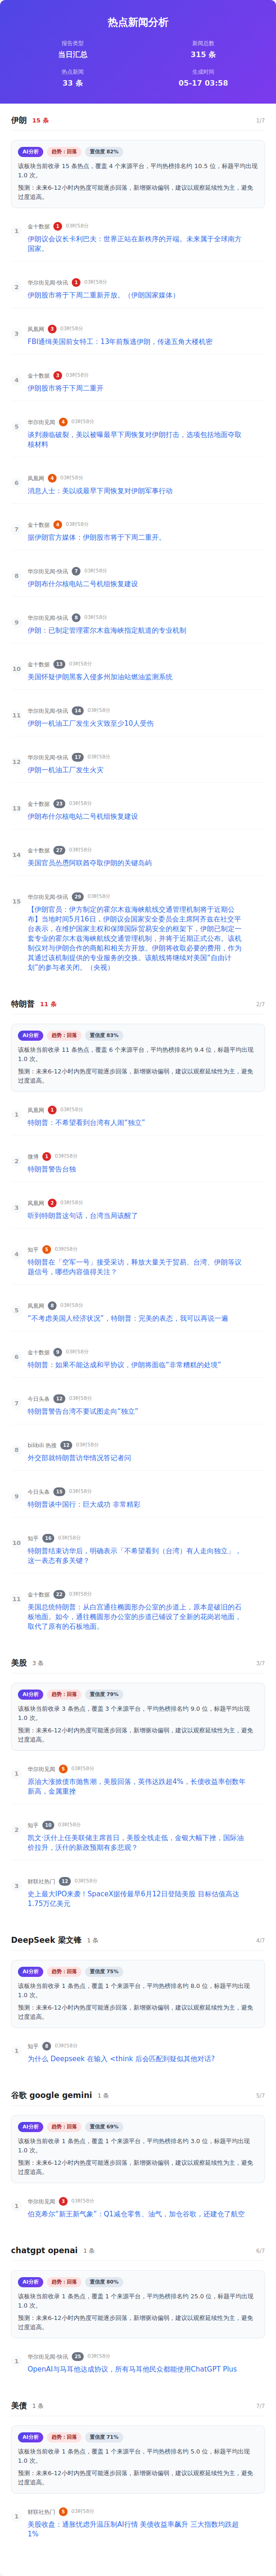
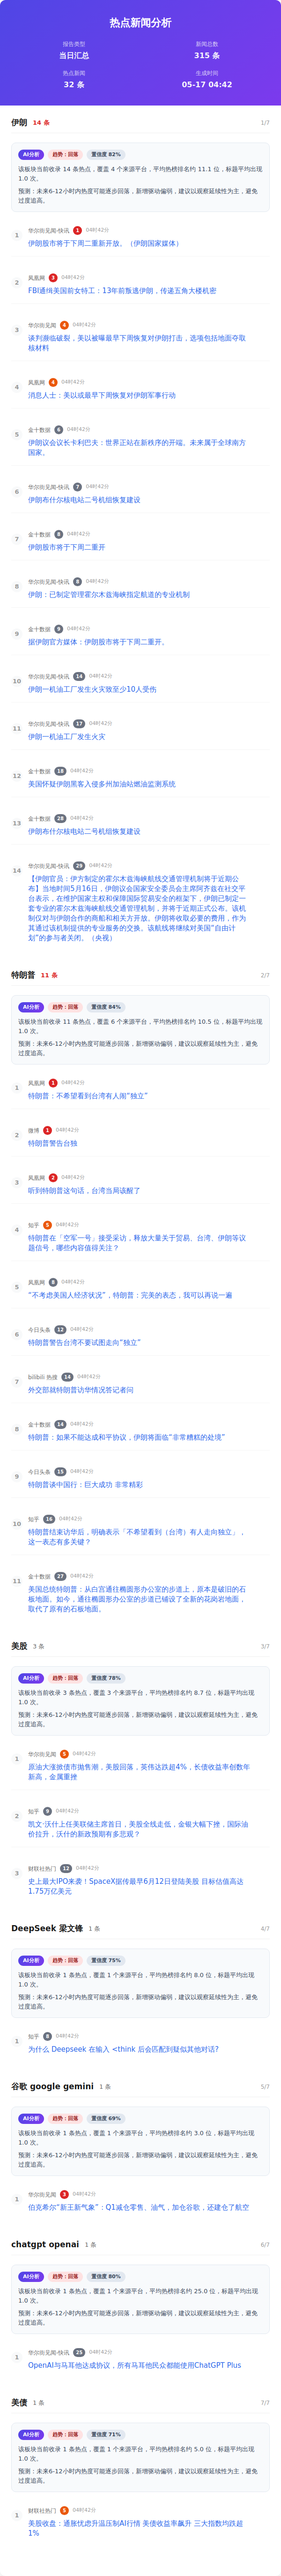
Auto update by GitHub Actions at Sun May 17 04:42:48 CST 2026

diff --git a/index.html b/index.html
@@ -459,11 +459,11 @@
                     </div>
                     <div class="info-item">
                         <span class="info-label">热点新闻</span>
-                        <span class="info-value">33 条</span>
+                        <span class="info-value">32 条</span>
                     </div>
                     <div class="info-item">
                         <span class="info-label">生成时间</span>
-                        <span class="info-value">05-17 03:58</span>
+                        <span class="info-value">05-17 04:42</span>
                     </div>
                 </div>
             </div>
@@ -473,7 +473,7 @@
                     <div class="word-header">
                         <div class="word-info">
                             <div class="word-name">伊朗</div>
-                            <div class="word-count hot">15 条</div>
+                            <div class="word-count hot">14 条</div>
                         </div>
                         <div class="word-index">1/7</div>
                     </div>
@@ -483,16 +483,16 @@
                             <span class="trend-badge down">趋势：回落</span>
                             <span class="confidence-pill">置信度 82%</span>
                         </div>
-                        <div class="ai-text">该板块当前收录 15 条热点，覆盖 4 个来源平台，平均热榜排名约 10.5 位，标题平均出现 1.0 次。</div>
+                        <div class="ai-text">该板块当前收录 14 条热点，覆盖 4 个来源平台，平均热榜排名约 11.1 位，标题平均出现 1.0 次。</div>
                         <div class="ai-text">预测：未来6-12小时内热度可能逐步回落，新增驱动偏弱，建议以观察延续性为主，避免过度追高。</div>
                     </div>
                     <div class="news-item ">
                         <div class="news-number">1</div>
                         <div class="news-content">
                             <div class="news-header">
-                                <span class="source-name">金十数据</span><span class="rank-num top">1</span><span class="time-info">03时58分</span>
+                                <span class="source-name">华尔街见闻-快讯</span><span class="rank-num top">1</span><span class="time-info">04时42分</span>
                             </div>
-                            <div class="news-title"><a href="https://flash.jin10.com/detail/20260517031730023800" target="_blank" class="news-link">伊朗议会议长卡利巴夫：世界正站在新秩序的开端。未来属于全球南方国家。</a>
+                            <div class="news-title"><a href="https://wallstreetcn.com/livenews/3104817" target="_blank" class="news-link">伊朗股市将于下周二重新开放。（伊朗国家媒体）</a>
                             </div>
                         </div>
                     </div>
@@ -500,9 +500,9 @@
                         <div class="news-number">2</div>
                         <div class="news-content">
                             <div class="news-header">
-                                <span class="source-name">华尔街见闻-快讯</span><span class="rank-num top">1</span><span class="time-info">03时58分</span>
+                                <span class="source-name">凤凰网</span><span class="rank-num top">3</span><span class="time-info">04时42分</span>
                             </div>
-                            <div class="news-title"><a href="https://wallstreetcn.com/livenews/3104817" target="_blank" class="news-link">伊朗股市将于下周二重新开放。（伊朗国家媒体）</a>
+                            <div class="news-title"><a href="https://news.ifeng.com/c/8tAy0GyTSSB" target="_blank" class="news-link">FBI通缉美国前女特工：13年前叛逃伊朗，传递五角大楼机密</a>
                             </div>
                         </div>
                     </div>
@@ -510,9 +510,9 @@
                         <div class="news-number">3</div>
                         <div class="news-content">
                             <div class="news-header">
-                                <span class="source-name">凤凰网</span><span class="rank-num top">3</span><span class="time-info">03时58分</span>
+                                <span class="source-name">华尔街见闻</span><span class="rank-num high">4</span><span class="time-info">04时42分</span>
                             </div>
-                            <div class="news-title"><a href="https://news.ifeng.com/c/8tAy0GyTSSB" target="_blank" class="news-link">FBI通缉美国前女特工：13年前叛逃伊朗，传递五角大楼机密</a>
+                            <div class="news-title"><a href="https://wallstreetcn.com/articles/3772425" target="_blank" class="news-link">谈判濒临破裂，美以被曝最早下周恢复对伊朗打击，选项包括地面夺取核材料</a>
                             </div>
                         </div>
                     </div>
@@ -520,9 +520,9 @@
                         <div class="news-number">4</div>
                         <div class="news-content">
                             <div class="news-header">
-                                <span class="source-name">金十数据</span><span class="rank-num top">3</span><span class="time-info">03时58分</span>
+                                <span class="source-name">凤凰网</span><span class="rank-num high">4</span><span class="time-info">04时42分</span>
                             </div>
-                            <div class="news-title"><a href="https://flash.jin10.com/detail/20260517024230307800" target="_blank" class="news-link">伊朗股市将于下周二重开</a>
+                            <div class="news-title"><a href="https://news.ifeng.com/c/8tAsxndbgHu" target="_blank" class="news-link">消息人士：美以或最早下周恢复对伊朗军事行动</a>
                             </div>
                         </div>
                     </div>
@@ -530,9 +530,9 @@
                         <div class="news-number">5</div>
                         <div class="news-content">
                             <div class="news-header">
-                                <span class="source-name">华尔街见闻</span><span class="rank-num high">4</span><span class="time-info">03时58分</span>
+                                <span class="source-name">金十数据</span><span class="rank-num ">6</span><span class="time-info">04时42分</span>
                             </div>
-                            <div class="news-title"><a href="https://wallstreetcn.com/articles/3772425" target="_blank" class="news-link">谈判濒临破裂，美以被曝最早下周恢复对伊朗打击，选项包括地面夺取核材料</a>
+                            <div class="news-title"><a href="https://flash.jin10.com/detail/20260517031730023800" target="_blank" class="news-link">伊朗议会议长卡利巴夫：世界正站在新秩序的开端。未来属于全球南方国家。</a>
                             </div>
                         </div>
                     </div>
@@ -540,9 +540,9 @@
                         <div class="news-number">6</div>
                         <div class="news-content">
                             <div class="news-header">
-                                <span class="source-name">凤凰网</span><span class="rank-num high">4</span><span class="time-info">03时58分</span>
+                                <span class="source-name">华尔街见闻-快讯</span><span class="rank-num ">7</span><span class="time-info">04时42分</span>
                             </div>
-                            <div class="news-title"><a href="https://news.ifeng.com/c/8tAsxndbgHu" target="_blank" class="news-link">消息人士：美以或最早下周恢复对伊朗军事行动</a>
+                            <div class="news-title"><a href="https://wallstreetcn.com/livenews/3104819" target="_blank" class="news-link">伊朗布什尔核电站二号机组恢复建设</a>
                             </div>
                         </div>
                     </div>
@@ -550,9 +550,9 @@
                         <div class="news-number">7</div>
                         <div class="news-content">
                             <div class="news-header">
-                                <span class="source-name">金十数据</span><span class="rank-num high">4</span><span class="time-info">03时58分</span>
+                                <span class="source-name">金十数据</span><span class="rank-num ">8</span><span class="time-info">04时42分</span>
                             </div>
-                            <div class="news-title"><a href="https://flash.jin10.com/detail/20260517023242958800" target="_blank" class="news-link">据伊朗官方媒体：伊朗股市将于下周二重开。</a>
+                            <div class="news-title"><a href="https://flash.jin10.com/detail/20260517024230307800" target="_blank" class="news-link">伊朗股市将于下周二重开</a>
                             </div>
                         </div>
                     </div>
@@ -560,9 +560,9 @@
                         <div class="news-number">8</div>
                         <div class="news-content">
                             <div class="news-header">
-                                <span class="source-name">华尔街见闻-快讯</span><span class="rank-num ">7</span><span class="time-info">03时58分</span>
+                                <span class="source-name">华尔街见闻-快讯</span><span class="rank-num ">8</span><span class="time-info">04时42分</span>
                             </div>
-                            <div class="news-title"><a href="https://wallstreetcn.com/livenews/3104819" target="_blank" class="news-link">伊朗布什尔核电站二号机组恢复建设</a>
+                            <div class="news-title"><a href="https://wallstreetcn.com/livenews/3104818" target="_blank" class="news-link">伊朗：已制定管理霍尔木兹海峡指定航道的专业机制</a>
                             </div>
                         </div>
                     </div>
@@ -570,9 +570,9 @@
                         <div class="news-number">9</div>
                         <div class="news-content">
                             <div class="news-header">
-                                <span class="source-name">华尔街见闻-快讯</span><span class="rank-num ">8</span><span class="time-info">03时58分</span>
+                                <span class="source-name">金十数据</span><span class="rank-num ">9</span><span class="time-info">04时42分</span>
                             </div>
-                            <div class="news-title"><a href="https://wallstreetcn.com/livenews/3104818" target="_blank" class="news-link">伊朗：已制定管理霍尔木兹海峡指定航道的专业机制</a>
+                            <div class="news-title"><a href="https://flash.jin10.com/detail/20260517023242958800" target="_blank" class="news-link">据伊朗官方媒体：伊朗股市将于下周二重开。</a>
                             </div>
                         </div>
                     </div>
@@ -580,9 +580,9 @@
                         <div class="news-number">10</div>
                         <div class="news-content">
                             <div class="news-header">
-                                <span class="source-name">金十数据</span><span class="rank-num ">13</span><span class="time-info">03时58分</span>
+                                <span class="source-name">华尔街见闻-快讯</span><span class="rank-num ">14</span><span class="time-info">04时42分</span>
                             </div>
-                            <div class="news-title"><a href="https://flash.jin10.com/detail/20260517013755887800" target="_blank" class="news-link">美国怀疑伊朗黑客入侵多州加油站燃油监测系统</a>
+                            <div class="news-title"><a href="https://wallstreetcn.com/livenews/3104807" target="_blank" class="news-link">伊朗一机油工厂发生火灾致至少10人受伤</a>
                             </div>
                         </div>
                     </div>
@@ -590,9 +590,9 @@
                         <div class="news-number">11</div>
                         <div class="news-content">
                             <div class="news-header">
-                                <span class="source-name">华尔街见闻-快讯</span><span class="rank-num ">14</span><span class="time-info">03时58分</span>
+                                <span class="source-name">华尔街见闻-快讯</span><span class="rank-num ">17</span><span class="time-info">04时42分</span>
                             </div>
-                            <div class="news-title"><a href="https://wallstreetcn.com/livenews/3104807" target="_blank" class="news-link">伊朗一机油工厂发生火灾致至少10人受伤</a>
+                            <div class="news-title"><a href="https://wallstreetcn.com/livenews/3104803" target="_blank" class="news-link">伊朗一机油工厂发生火灾</a>
                             </div>
                         </div>
                     </div>
@@ -600,9 +600,9 @@
                         <div class="news-number">12</div>
                         <div class="news-content">
                             <div class="news-header">
-                                <span class="source-name">华尔街见闻-快讯</span><span class="rank-num ">17</span><span class="time-info">03时58分</span>
+                                <span class="source-name">金十数据</span><span class="rank-num ">18</span><span class="time-info">04时42分</span>
                             </div>
-                            <div class="news-title"><a href="https://wallstreetcn.com/livenews/3104803" target="_blank" class="news-link">伊朗一机油工厂发生火灾</a>
+                            <div class="news-title"><a href="https://flash.jin10.com/detail/20260517013755887800" target="_blank" class="news-link">美国怀疑伊朗黑客入侵多州加油站燃油监测系统</a>
                             </div>
                         </div>
                     </div>
@@ -610,7 +610,7 @@
                         <div class="news-number">13</div>
                         <div class="news-content">
                             <div class="news-header">
-                                <span class="source-name">金十数据</span><span class="rank-num ">23</span><span class="time-info">03时58分</span>
+                                <span class="source-name">金十数据</span><span class="rank-num ">28</span><span class="time-info">04时42分</span>
                             </div>
                             <div class="news-title"><a href="https://flash.jin10.com/detail/20260517005821557800" target="_blank" class="news-link">伊朗布什尔核电站二号机组恢复建设</a>
                             </div>
@@ -620,17 +620,7 @@
                         <div class="news-number">14</div>
                         <div class="news-content">
                             <div class="news-header">
-                                <span class="source-name">金十数据</span><span class="rank-num ">27</span><span class="time-info">03时58分</span>
-                            </div>
-                            <div class="news-title"><a href="https://flash.jin10.com/detail/20260517004855407800" target="_blank" class="news-link">美国官员怂恿阿联酋夺取伊朗的关键岛屿</a>
-                            </div>
-                        </div>
-                    </div>
-                    <div class="news-item ">
-                        <div class="news-number">15</div>
-                        <div class="news-content">
-                            <div class="news-header">
-                                <span class="source-name">华尔街见闻-快讯</span><span class="rank-num ">29</span><span class="time-info">03时58分</span>
+                                <span class="source-name">华尔街见闻-快讯</span><span class="rank-num ">29</span><span class="time-info">04时42分</span>
                             </div>
                             <div class="news-title"><a href="https://wallstreetcn.com/livenews/3104789" target="_blank" class="news-link">【伊朗官员：伊方制定的霍尔木兹海峡航线交通管理机制将于近期公布】当地时间5月16日，伊朗议会国家安全委员会主席阿齐兹在社交平台表示，在维护国家主权和保障国际贸易安全的框架下，伊朗已制定一套专业的霍尔木兹海峡航线交通管理机制，并将于近期正式公布。该机制仅对与伊朗合作的商船和相关方开放。伊朗将收取必要的费用，作为其通过该机制提供的专业服务的交换。该航线将继续对美国“自由计划”的参与者关闭。（央视）</a>
                             </div>
@@ -649,16 +639,16 @@
                         <div class="ai-insight-top">
                             <span class="ai-badge">AI分析</span>
                             <span class="trend-badge down">趋势：回落</span>
-                            <span class="confidence-pill">置信度 83%</span>
+                            <span class="confidence-pill">置信度 84%</span>
                         </div>
-                        <div class="ai-text">该板块当前收录 11 条热点，覆盖 6 个来源平台，平均热榜排名约 9.4 位，标题平均出现 1.0 次。</div>
+                        <div class="ai-text">该板块当前收录 11 条热点，覆盖 6 个来源平台，平均热榜排名约 10.5 位，标题平均出现 1.0 次。</div>
                         <div class="ai-text">预测：未来6-12小时内热度可能逐步回落，新增驱动偏弱，建议以观察延续性为主，避免过度追高。</div>
                     </div>
                     <div class="news-item ">
                         <div class="news-number">1</div>
                         <div class="news-content">
                             <div class="news-header">
-                                <span class="source-name">凤凰网</span><span class="rank-num top">1</span><span class="time-info">03时58分</span>
+                                <span class="source-name">凤凰网</span><span class="rank-num top">1</span><span class="time-info">04时42分</span>
                             </div>
                             <div class="news-title"><a href="https://news.ifeng.com/c/8tBHQ0gcJR0" target="_blank" class="news-link">特朗普：不希望看到台湾有人闹“独立”</a>
                             </div>
@@ -668,7 +658,7 @@
                         <div class="news-number">2</div>
                         <div class="news-content">
                             <div class="news-header">
-                                <span class="source-name">微博</span><span class="rank-num top">1</span><span class="time-info">03时58分</span>
+                                <span class="source-name">微博</span><span class="rank-num top">1</span><span class="time-info">04时42分</span>
                             </div>
                             <div class="news-title"><a href="https://s.weibo.com/weibo?q=%23%E7%89%B9%E6%9C%97%E6%99%AE%E8%AD%A6%E5%91%8A%E5%8F%B0%E7%8B%AC%23&amp;t=31&amp;band_rank=1&amp;Refer=top" target="_blank" class="news-link">特朗普警告台独</a>
                             </div>
@@ -678,7 +668,7 @@
                         <div class="news-number">3</div>
                         <div class="news-content">
                             <div class="news-header">
-                                <span class="source-name">凤凰网</span><span class="rank-num top">2</span><span class="time-info">03时58分</span>
+                                <span class="source-name">凤凰网</span><span class="rank-num top">2</span><span class="time-info">04时42分</span>
                             </div>
                             <div class="news-title"><a href="https://news.ifeng.com/c/8tB1vsSsITh" target="_blank" class="news-link">听到特朗普这句话，台湾当局该醒了</a>
                             </div>
@@ -688,7 +678,7 @@
                         <div class="news-number">4</div>
                         <div class="news-content">
                             <div class="news-header">
-                                <span class="source-name">知乎</span><span class="rank-num high">5</span><span class="time-info">03时58分</span>
+                                <span class="source-name">知乎</span><span class="rank-num high">5</span><span class="time-info">04时42分</span>
                             </div>
                             <div class="news-title"><a href="https://www.zhihu.com/question/2039019083463488463" target="_blank" class="news-link">特朗普在「空军一号」接受采访，释放大量关于贸易、台湾、伊朗等议题信号，哪些内容值得关注？</a>
                             </div>
@@ -698,7 +688,7 @@
                         <div class="news-number">5</div>
                         <div class="news-content">
                             <div class="news-header">
-                                <span class="source-name">凤凰网</span><span class="rank-num ">8</span><span class="time-info">03时58分</span>
+                                <span class="source-name">凤凰网</span><span class="rank-num ">8</span><span class="time-info">04时42分</span>
                             </div>
                             <div class="news-title"><a href="https://news.ifeng.com/c/8tAvchdzOd1" target="_blank" class="news-link">“不考虑美国人经济状况”，特朗普：完美的表态，我可以再说一遍</a>
                             </div>
@@ -708,9 +698,9 @@
                         <div class="news-number">6</div>
                         <div class="news-content">
                             <div class="news-header">
-                                <span class="source-name">金十数据</span><span class="rank-num ">9</span><span class="time-info">03时58分</span>
+                                <span class="source-name">今日头条</span><span class="rank-num ">12</span><span class="time-info">04时42分</span>
                             </div>
-                            <div class="news-title"><a href="https://flash.jin10.com/detail/20260517015331327800" target="_blank" class="news-link">特朗普：如果不能达成和平协议，伊朗将面临“非常糟糕的处境”</a>
+                            <div class="news-title"><a href="https://www.toutiao.com/trending/7640462139869630015/" target="_blank" class="news-link">特朗普警告台湾不要试图走向“独立”</a>
                             </div>
                         </div>
                     </div>
@@ -718,9 +708,9 @@
                         <div class="news-number">7</div>
                         <div class="news-content">
                             <div class="news-header">
-                                <span class="source-name">今日头条</span><span class="rank-num ">12</span><span class="time-info">03时58分</span>
+                                <span class="source-name">bilibili 热搜</span><span class="rank-num ">14</span><span class="time-info">04时42分</span>
                             </div>
-                            <div class="news-title"><a href="https://www.toutiao.com/trending/7640462139869630015/" target="_blank" class="news-link">特朗普警告台湾不要试图走向“独立”</a>
+                            <div class="news-title"><a href="https://search.bilibili.com/all?keyword=%E5%A4%96%E4%BA%A4%E9%83%A8%E5%B0%B1%E7%89%B9%E6%9C%97%E6%99%AE%E8%AE%BF%E5%8D%8E%E6%83%85%E5%86%B5%E7%AD%94%E8%AE%B0%E8%80%85%E9%97%AE" target="_blank" class="news-link">外交部就特朗普访华情况答记者问</a>
                             </div>
                         </div>
                     </div>
@@ -728,9 +718,9 @@
                         <div class="news-number">8</div>
                         <div class="news-content">
                             <div class="news-header">
-                                <span class="source-name">bilibili 热搜</span><span class="rank-num ">12</span><span class="time-info">03时58分</span>
+                                <span class="source-name">金十数据</span><span class="rank-num ">14</span><span class="time-info">04时42分</span>
                             </div>
-                            <div class="news-title"><a href="https://search.bilibili.com/all?keyword=%E5%A4%96%E4%BA%A4%E9%83%A8%E5%B0%B1%E7%89%B9%E6%9C%97%E6%99%AE%E8%AE%BF%E5%8D%8E%E6%83%85%E5%86%B5%E7%AD%94%E8%AE%B0%E8%80%85%E9%97%AE" target="_blank" class="news-link">外交部就特朗普访华情况答记者问</a>
+                            <div class="news-title"><a href="https://flash.jin10.com/detail/20260517015331327800" target="_blank" class="news-link">特朗普：如果不能达成和平协议，伊朗将面临“非常糟糕的处境”</a>
                             </div>
                         </div>
                     </div>
@@ -738,7 +728,7 @@
                         <div class="news-number">9</div>
                         <div class="news-content">
                             <div class="news-header">
-                                <span class="source-name">今日头条</span><span class="rank-num ">15</span><span class="time-info">03时58分</span>
+                                <span class="source-name">今日头条</span><span class="rank-num ">15</span><span class="time-info">04时42分</span>
                             </div>
                             <div class="news-title"><a href="https://www.toutiao.com/trending/7639309598792663066/" target="_blank" class="news-link">特朗普谈中国行：巨大成功 非常精彩</a>
                             </div>
@@ -748,7 +738,7 @@
                         <div class="news-number">10</div>
                         <div class="news-content">
                             <div class="news-header">
-                                <span class="source-name">知乎</span><span class="rank-num ">16</span><span class="time-info">03时58分</span>
+                                <span class="source-name">知乎</span><span class="rank-num ">16</span><span class="time-info">04时42分</span>
                             </div>
                             <div class="news-title"><a href="https://www.zhihu.com/question/2039077052658049213" target="_blank" class="news-link">特朗普结束访华后，明确表示「不希望看到（台湾）有人走向独立」，这一表态有多关键？</a>
                             </div>
@@ -758,7 +748,7 @@
                         <div class="news-number">11</div>
                         <div class="news-content">
                             <div class="news-header">
-                                <span class="source-name">金十数据</span><span class="rank-num ">22</span><span class="time-info">03时58分</span>
+                                <span class="source-name">金十数据</span><span class="rank-num ">27</span><span class="time-info">04时42分</span>
                             </div>
                             <div class="news-title"><a href="https://flash.jin10.com/detail/20260517010131045800" target="_blank" class="news-link">美国总统特朗普：从白宫通往椭圆形办公室的步道上，原本是破旧的石板地面。如今，通往椭圆形办公室的步道已铺设了全新的花岗岩地面，取代了原有的石板地面。</a>
                             </div>
@@ -777,16 +767,16 @@
                         <div class="ai-insight-top">
                             <span class="ai-badge">AI分析</span>
                             <span class="trend-badge down">趋势：回落</span>
-                            <span class="confidence-pill">置信度 79%</span>
+                            <span class="confidence-pill">置信度 78%</span>
                         </div>
-                        <div class="ai-text">该板块当前收录 3 条热点，覆盖 3 个来源平台，平均热榜排名约 9.0 位，标题平均出现 1.0 次。</div>
+                        <div class="ai-text">该板块当前收录 3 条热点，覆盖 3 个来源平台，平均热榜排名约 8.7 位，标题平均出现 1.0 次。</div>
                         <div class="ai-text">预测：未来6-12小时内热度可能逐步回落，新增驱动偏弱，建议以观察延续性为主，避免过度追高。</div>
                     </div>
                     <div class="news-item ">
                         <div class="news-number">1</div>
                         <div class="news-content">
                             <div class="news-header">
-                                <span class="source-name">华尔街见闻</span><span class="rank-num high">5</span><span class="time-info">03时58分</span>
+                                <span class="source-name">华尔街见闻</span><span class="rank-num high">5</span><span class="time-info">04时42分</span>
                             </div>
                             <div class="news-title"><a href="https://wallstreetcn.com/articles/3772341" target="_blank" class="news-link">原油大涨掀债市抛售潮，美股回落，英伟达跌超4%，长债收益率创数年新高，金属重挫</a>
                             </div>
@@ -796,7 +786,7 @@
                         <div class="news-number">2</div>
                         <div class="news-content">
                             <div class="news-header">
-                                <span class="source-name">知乎</span><span class="rank-num ">10</span><span class="time-info">03时58分</span>
+                                <span class="source-name">知乎</span><span class="rank-num ">9</span><span class="time-info">04时42分</span>
                             </div>
                             <div class="news-title"><a href="https://www.zhihu.com/question/2038931746901710643" target="_blank" class="news-link">凯文·沃什上任美联储主席首日，美股全线走低，金银大幅下挫，国际油价拉升，沃什的新政预期有多悲观？</a>
                             </div>
@@ -806,7 +796,7 @@
                         <div class="news-number">3</div>
                         <div class="news-content">
                             <div class="news-header">
-                                <span class="source-name">财联社热门</span><span class="rank-num ">12</span><span class="time-info">03时58分</span>
+                                <span class="source-name">财联社热门</span><span class="rank-num ">12</span><span class="time-info">04时42分</span>
                             </div>
                             <div class="news-title"><a href="https://www.cls.cn/detail/2373172" target="_blank" class="news-link">史上最大IPO来袭！SpaceX据传最早6月12日登陆美股 目标估值高达1.75万亿美元</a>
                             </div>
@@ -834,7 +824,7 @@
                         <div class="news-number">1</div>
                         <div class="news-content">
                             <div class="news-header">
-                                <span class="source-name">知乎</span><span class="rank-num ">8</span><span class="time-info">03时58分</span>
+                                <span class="source-name">知乎</span><span class="rank-num ">8</span><span class="time-info">04时42分</span>
                             </div>
                             <div class="news-title"><a href="https://www.zhihu.com/question/2038402853274915914" target="_blank" class="news-link">为什么 Deepseek 在输入 &lt;think 后会匹配到疑似其他对话?</a>
                             </div>
@@ -862,7 +852,7 @@
                         <div class="news-number">1</div>
                         <div class="news-content">
                             <div class="news-header">
-                                <span class="source-name">华尔街见闻</span><span class="rank-num top">3</span><span class="time-info">03时58分</span>
+                                <span class="source-name">华尔街见闻</span><span class="rank-num top">3</span><span class="time-info">04时42分</span>
                             </div>
                             <div class="news-title"><a href="https://wallstreetcn.com/articles/3772402" target="_blank" class="news-link">伯克希尔“新王新气象”：Q1减仓零售、油气，加仓谷歌，还建仓了航空</a>
                             </div>
@@ -890,7 +880,7 @@
                         <div class="news-number">1</div>
                         <div class="news-content">
                             <div class="news-header">
-                                <span class="source-name">华尔街见闻-快讯</span><span class="rank-num ">25</span><span class="time-info">03时58分</span>
+                                <span class="source-name">华尔街见闻-快讯</span><span class="rank-num ">25</span><span class="time-info">04时42分</span>
                             </div>
                             <div class="news-title"><a href="https://wallstreetcn.com/livenews/3104794" target="_blank" class="news-link">OpenAI与马耳他达成协议，所有马耳他民众都能使用ChatGPT Plus</a>
                             </div>
@@ -918,7 +908,7 @@
                         <div class="news-number">1</div>
                         <div class="news-content">
                             <div class="news-header">
-                                <span class="source-name">财联社热门</span><span class="rank-num high">5</span><span class="time-info">03时58分</span>
+                                <span class="source-name">财联社热门</span><span class="rank-num high">5</span><span class="time-info">04时42分</span>
                             </div>
                             <div class="news-title"><a href="https://www.cls.cn/detail/2373036" target="_blank" class="news-link">美股收盘：通胀忧虑升温压制AI行情 美债收益率飙升 三大指数均跌超1%</a>
                             </div>